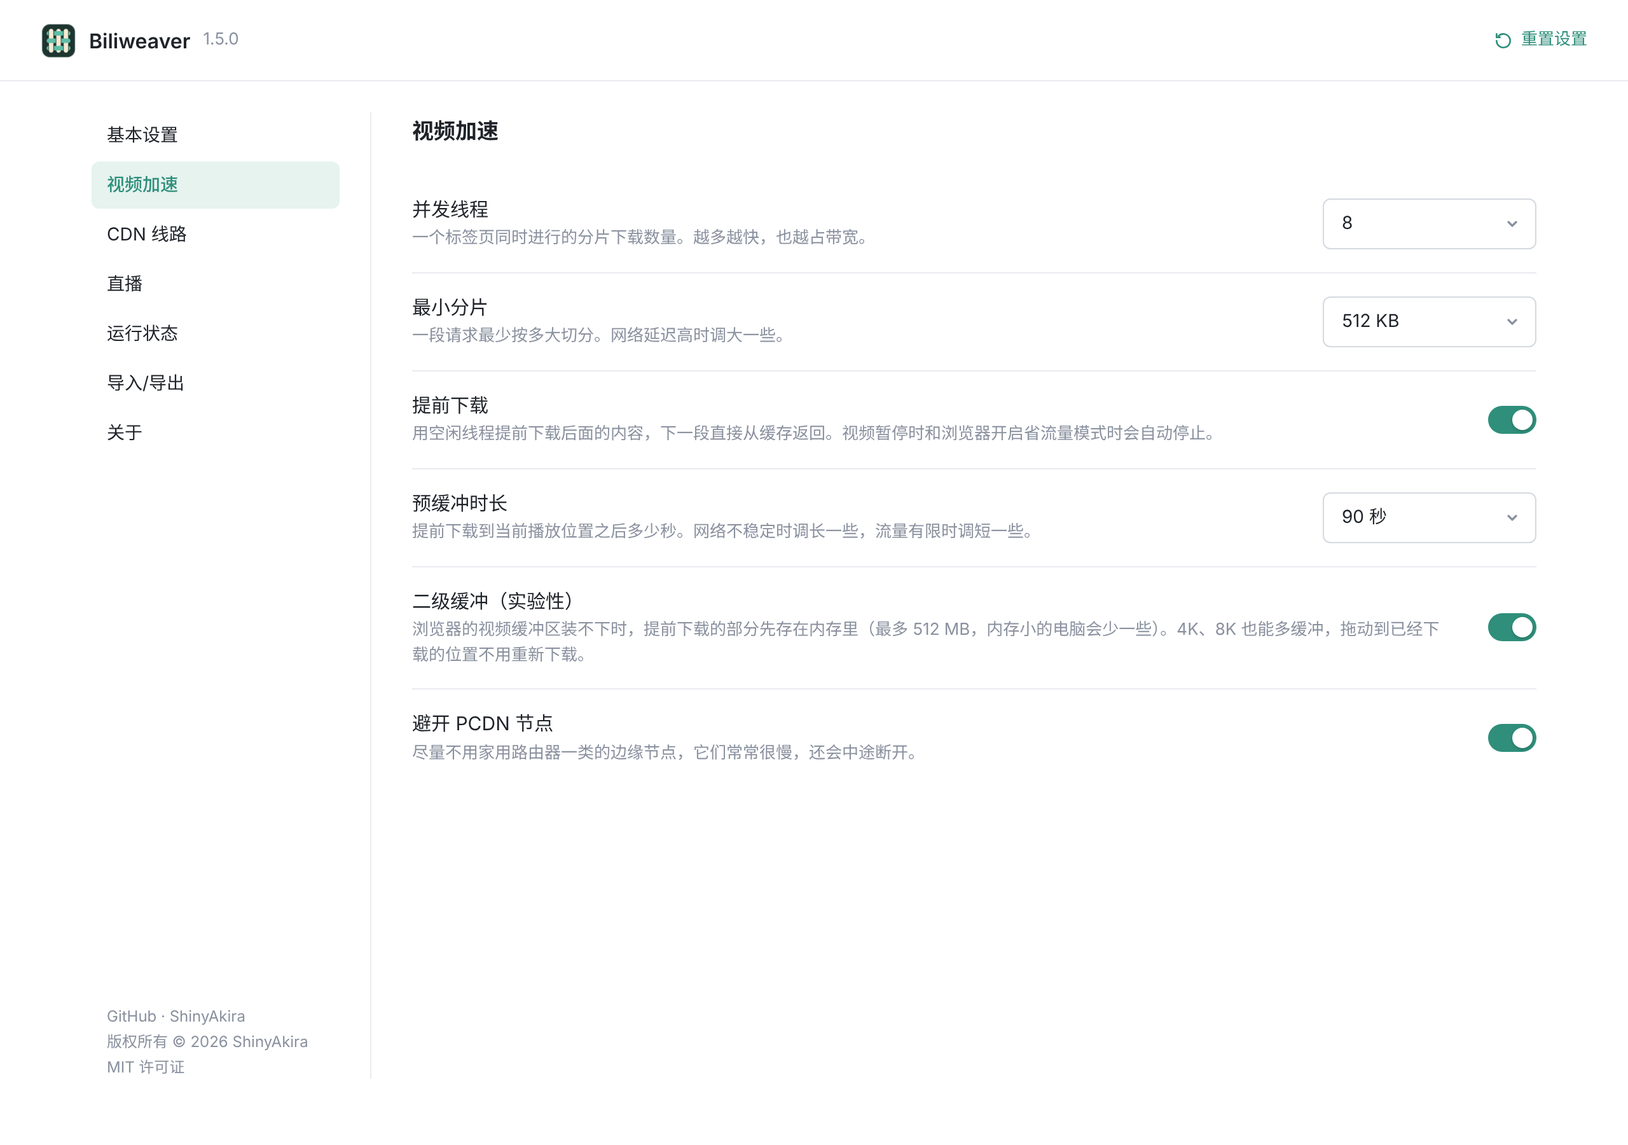
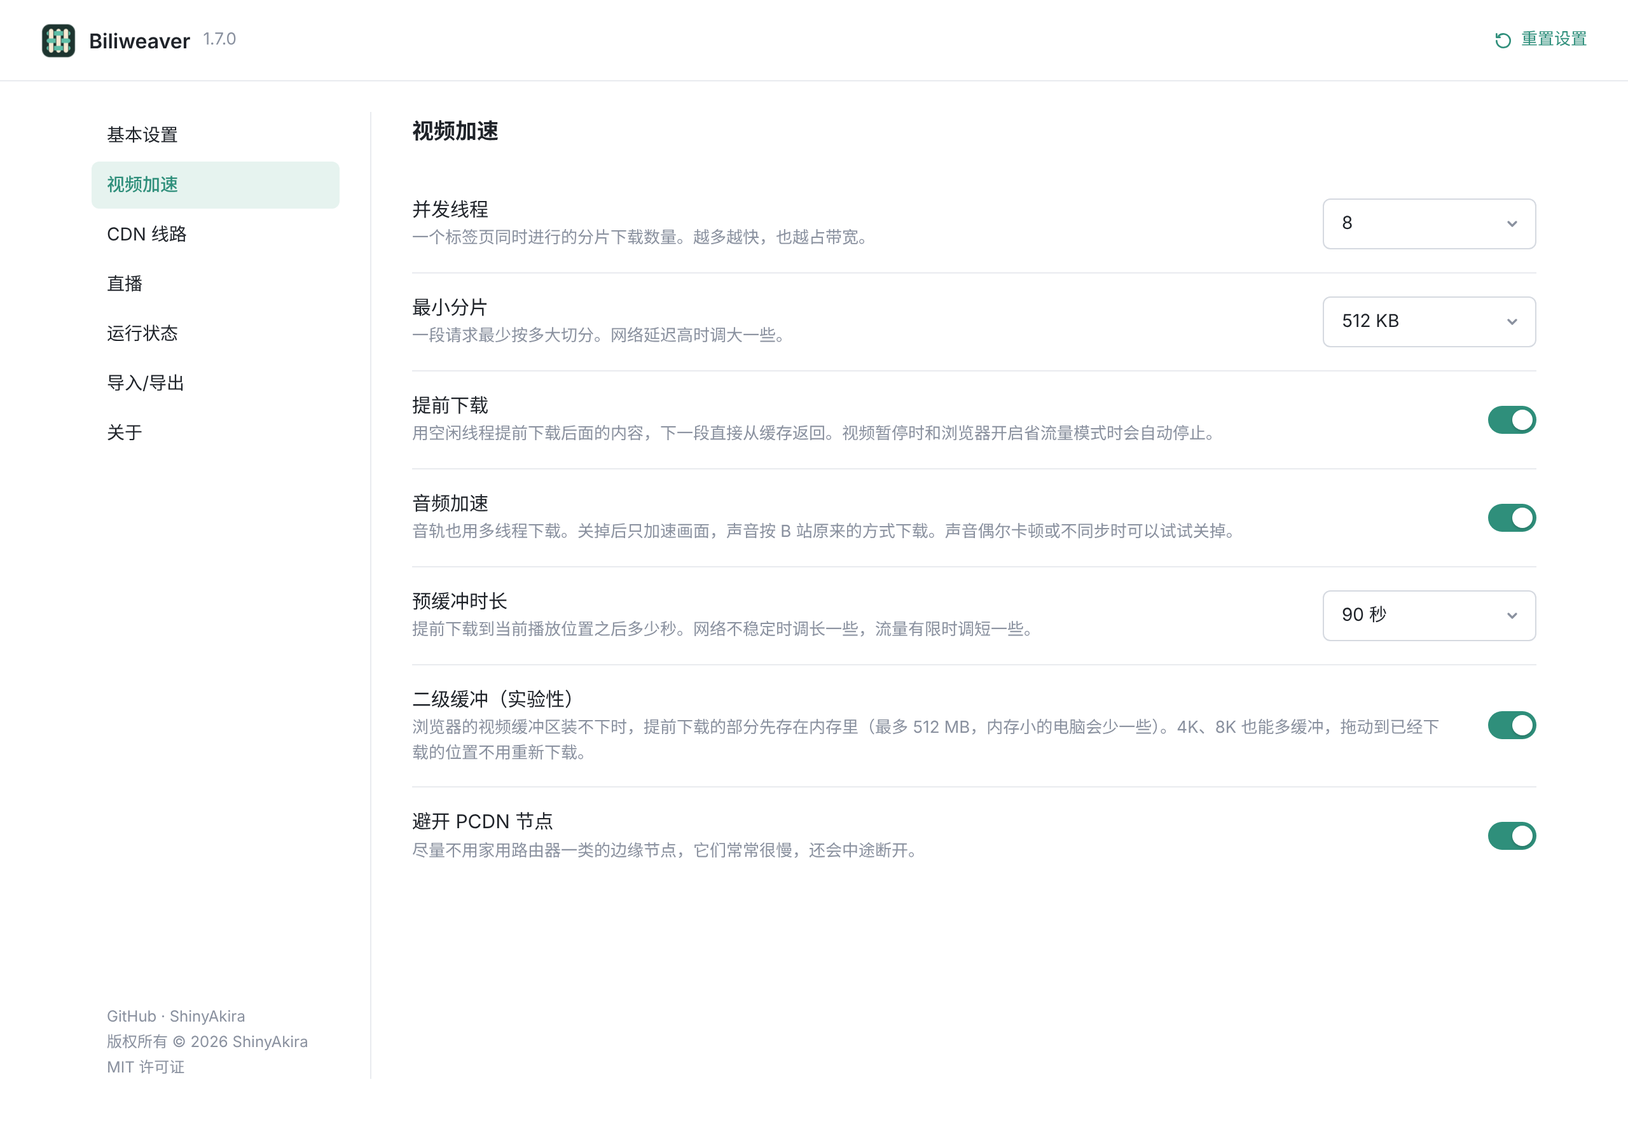
biliweaver v1.7.0

diff --git a/content/player-button.js b/content/player-button.js
@@ -96,6 +96,34 @@
     if (open) renderStats();
   });
 
+  // The last minute of speed, one sample a second, for the chart in the panel. The page
+  // sends stats only when they change, so the latest figure stands for the quiet seconds.
+  const HISTORY = 60;
+  const speeds = [];
+  setInterval(() => {
+    if (!stats) return;
+    speeds.push(Math.max(0, Number(stats.speedBps) || 0));
+    if (speeds.length > HISTORY) speeds.shift();
+    if (open) renderChart();
+  }, 1000);
+
+  function renderChart() {
+    const box = panelRoot?.querySelector(".chart");
+    if (!box) return;
+    const peak = Math.max(0, ...speeds);
+    box.hidden = peak <= 0;
+    if (peak <= 0) return;
+    const width = 240;
+    const height = 34;
+    const step = width / (HISTORY - 1);
+    const offset = HISTORY - speeds.length;
+    const points = speeds.map((value, index) => [(offset + index) * step, height - 2 - (value / peak) * (height - 6)]);
+    const line = points.map(([x, y], index) => `${index ? "L" : "M"}${x.toFixed(1)} ${y.toFixed(1)}`).join(" ");
+    box.querySelector(".chart-line").setAttribute("d", line);
+    box.querySelector(".chart-area").setAttribute("d", `${line} L${points[points.length - 1][0].toFixed(1)} ${height} L${points[0][0].toFixed(1)} ${height} Z`);
+    box.querySelector(".chart-caption").textContent = t("chartCaption").replace("{peak}", `${formatBytes(peak)}/s`);
+  }
+
   // ---------------------------------------------------------------------------------
   // The button.
   // ---------------------------------------------------------------------------------
@@ -347,6 +375,10 @@
         <div><b data-stat="threads">0</b><span data-i18n="threadsNow"></span></div>
         <div><b data-stat="bytes">0 B</b><span data-i18n="accelerated"></span></div>
       </div>
+      <div class="chart" hidden>
+        <svg viewBox="0 0 240 34" preserveAspectRatio="none" aria-hidden="true"><path class="chart-area"/><path class="chart-line"/></svg>
+        <div class="chart-caption"></div>
+      </div>
       <div class="notices" data-stat="notices"></div>
       <div class="group">
         <div class="label" data-i18n="threads"></div>
@@ -411,6 +443,11 @@
     .stats div{display:flex;flex-direction:column;align-items:center}
     .stats b{font-size:13px;font-weight:600;color:#00aeec;font-variant-numeric:tabular-nums;white-space:nowrap}
     .stats span{font-size:11px;color:hsla(0,0%,100%,.55)}
+    .chart{margin:-2px 0 8px}
+    .chart svg{display:block;width:100%;height:34px}
+    .chart-area{fill:rgba(0,174,236,.18)}
+    .chart-line{fill:none;stroke:#00aeec;stroke-width:1.5;vector-effect:non-scaling-stroke;stroke-linejoin:round}
+    .chart-caption{font-size:11px;color:hsla(0,0%,100%,.45);text-align:right;margin-top:2px;font-variant-numeric:tabular-nums}
     .group{margin:8px 0}
     .label{font-size:12px;color:hsla(0,0%,100%,.6);margin-bottom:5px}
     .segments{display:grid;grid-template-columns:repeat(4,1fr);gap:4px}
@@ -668,6 +705,7 @@
     renderNotices();
     const set = (name, text) => { const element = panelRoot.querySelector(`[data-stat=${name}]`); if (element) element.textContent = text; };
     set("speed", `${formatBytes(stats?.speedBps)}/s`);
+    renderChart();
     set("threads", String(stats?.activeThreads || 0));
     set("bytes", formatBytes(stats?.acceleratedBytes));
     // With the second buffer on: seconds loaded past the playback position, and the memory

diff --git a/page/transfer.js b/page/transfer.js
@@ -27,11 +27,12 @@
   const MIN_SPEED_FOR_TIMEOUT = 24 * 1024; // bytes per second before a piece counts as stalled
 
   class TransferError extends Error {
-    constructor(message, { hard = false, status = 0 } = {}) {
+    constructor(message, { hard = false, status = 0, expired = false } = {}) {
       super(message);
       this.name = "TransferError";
       this.hard = hard;
       this.status = status;
+      this.expired = expired;
     }
   }
 
@@ -108,10 +109,15 @@
       clearTimeout(headerTimer);
       headerTimer = null;
       if (response.status === 416) throw new TransferError("range not satisfiable", { status: 416 });
-      // 429 is always rate limiting. A 403 from a host that has already served this page
-      // well is too; a 403 from a host never used is just a host that cannot serve the file.
-      if (response.status === 429 || (response.status === 403 && entry.requests > 0)) bw.guard.rateLimited(host, response.status);
-      if (response.status === 429) throw new TransferError("HTTP 429", { status: 429 });
+      // A 403 for an address past its deadline says nothing about the host: the address is
+      // stale, and bilibili's player will fetch a new one.
+      if (response.status === 403 && util.expired(candidate.url)) throw new TransferError("address expired", { status: 403, expired: true });
+      // 429 and 412 (bilibili's own "too many requests") are always rate limiting. A 403 from
+      // a host that has already served this page well is too; a 403 from a host never used
+      // is just a host that cannot serve the file.
+      const limited = response.status === 429 || response.status === 412;
+      if (limited || (response.status === 403 && entry.requests > 0)) bw.guard.rateLimited(host, response.status);
+      if (limited) throw new TransferError(`HTTP ${response.status}`, { status: response.status });
       if (response.status === 403 || response.status === 404) throw new TransferError(`HTTP ${response.status}`, { hard: true, status: response.status });
       if (response.status !== 206) {
         // A server that ignores Range would send the whole file; that host is useless here.
@@ -147,7 +153,7 @@
     } catch (error) {
       if (outerSignal?.aborted) throw util.abortError();
       const transfer = error instanceof TransferError ? error : new TransferError(controller.signal.aborted ? "timed out" : String(error?.message || error));
-      if (transfer.status !== 416) hosts.failure(host, transfer.message, { hard: transfer.hard });
+      if (transfer.status !== 416 && !transfer.expired) hosts.failure(host, transfer.message, { hard: transfer.hard });
       throw transfer;
     } finally {
       if (headerTimer) clearTimeout(headerTimer);
@@ -174,7 +180,7 @@
         return await hedged(file, candidates, candidate, start, end, signal, tried);
       } catch (error) {
         if (signal?.aborted || error?.name === "AbortError") throw util.abortError();
-        if (error?.status === 416) throw error;
+        if (error?.status === 416 || error?.expired) throw error;
         lastError = error;
       } finally {
         release();

diff --git a/tests/extension-test.js b/tests/extension-test.js
@@ -162,6 +162,7 @@ window.__NEPTUNE_IS_MY_WAIFU__ = { roomInitRes: { data: { playurl_info: { playur
     const hint = await popup.locator("small[data-i18n=blockIntlHint]").textContent();
     assert.ok(/international site/.test(hint), hint);
     assert.equal(await popup.isChecked("input[data-key=blockIntl]"), false);
+    assert.equal(await popup.isChecked("input[data-key=audio]"), true);
     await popup.click("label:has(input[data-key=blockIntl]) .switch");
     await popup.waitForTimeout(300);
     assert.equal((await worker.evaluate(() => chrome.storage.sync.get("blockIntl"))).blockIntl, true);
@@ -547,11 +548,25 @@ window.__NEPTUNE_IS_MY_WAIFU__ = { roomInitRes: { data: { playurl_info: { playur
     const cookie = (await context.cookies("https://www.bilibili.com")).find((item) => item.name === "user_site");
     assert.equal(cookie?.value, "CN");
     assert.equal(cookie?.domain, ".bilibili.com");
-    // A tab bilibili keeps sending back is left on the international site after two tries.
+    // bilibili's own code moving this page to its international twin (as it does for some
+    // signed-in accounts) is cancelled.
+    await intl.waitForFunction(() => window.__biliweaver?.isReady === true);
+    await intl.evaluate(() => { location.href = "/zh-Hans/video/BV1test/?p=2"; });
+    await intl.waitForTimeout(800);
+    assert.equal(intl.url(), "https://www.bilibili.com/video/BV1test/?p=2");
+    assert.equal(await intl.evaluate(() => document.documentElement.dataset.biliweaverSiteKept), "1");
+    // A page whose script keeps moving it to the international site stays on the mainland.
     await context.route("https://www.bilibili.com/**/BV1loop*", (route) => route.fulfill({ contentType: "text/html", body: "<!doctype html><title>loop</title><script>if (!location.pathname.startsWith('/zh-Hans/')) location.replace('/zh-Hans/video/BV1loop');</script>" }));
     await intl.goto("https://www.bilibili.com/zh-Hans/video/BV1loop");
+    await intl.waitForTimeout(1500);
+    assert.equal(new URL(intl.url()).pathname, "/video/BV1loop");
+    // When the server itself keeps sending the tab back, it is left there after two tries.
+    await context.route("https://www.bilibili.com/video/BV1srv", (route) => route.fulfill({ status: 302, headers: { location: "https://www.bilibili.com/zh-Hans/video/BV1srv" } }));
+    await context.route("https://www.bilibili.com/zh-Hans/video/BV1srv", (route) => route.fulfill({ contentType: "text/html", body: "<!doctype html><title>srv</title>" }));
+    await intl.waitForTimeout(16000);
+    await intl.goto("https://www.bilibili.com/zh-Hans/video/BV1srv");
     await intl.waitForTimeout(2500);
-    assert.equal(new URL(intl.url()).pathname, "/zh-Hans/video/BV1loop");
+    assert.equal(new URL(intl.url()).pathname, "/zh-Hans/video/BV1srv");
     await worker.evaluate(() => chrome.storage.sync.set({ blockIntl: false }));
     await intl.goto("https://www.bilibili.com/video/BV1test/");
     await intl.waitForFunction(() => window.__biliweaver?.isReady === true);

diff --git a/page/vod.js b/page/vod.js
@@ -50,6 +50,9 @@
       remember(urls);
       // The stream's bit rate turns the buffer length setting into bytes.
       if (Number(value.bandwidth) > 0) for (const url of urls) bw.media.setBitrate(util.fileKey(util.absoluteUrl(url)), value.bandwidth);
+      // The play info says which streams are sound; "Accelerate audio" can leave those alone.
+      const mime = String(value.mimeType || value.mime_type || "");
+      if (/^audio\//i.test(mime) || AUDIO_IDS.has(Number(value.id))) for (const url of urls) audioKeys.add(util.fileKey(util.absoluteUrl(url)));
     }
     for (const key of Object.keys(value)) {
       const child = value[key];
@@ -70,12 +73,25 @@
     try { scan(JSON.parse(text)); } catch (_error) {}
   });
 
+  // bilibili numbers its sound streams 30216, 30232 and 30280 (AAC), 30250 (Dolby) and
+  // 30251 (Hi-Res); the number ends the file name, as in …-1-30280.m4s.
+  const AUDIO_IDS = new Set([30216, 30232, 30280, 30250, 30251]);
+  const audioKeys = new Set();
+  function isAudio(url) {
+    if (audioKeys.has(util.fileKey(url))) return true;
+    const id = /-(\d{5})\.m4s(?:\?|$)/i.exec(url);
+    return Boolean(id && AUDIO_IDS.has(Number(id[1])));
+  }
+
   function isMedia(url) {
     try {
       const parsed = new URL(url);
       if (!/\/upgcxcode\//.test(parsed.pathname)) return false;
       if (!/\.(?:m4s|mp4|flv)$/i.test(parsed.pathname)) return false;
-      return /(?:^|\.)(?:bilivideo\.(?:com|cn)|akamaized\.net|szbdyd\.com|hdslb\.com)$/i.test(parsed.hostname) || util.isPcdn(url) || root.__BILIWEAVER_TEST__ === true;
+      if (/(?:^|\.)(?:bilivideo\.(?:com|cn)|akamaized\.net|szbdyd\.com|hdslb\.com)$/i.test(parsed.hostname) || util.isPcdn(url) || root.__BILIWEAVER_TEST__ === true) return true;
+      // Another script or extension may have moved the video to a host of its own. The
+      // signed bilibili path (with its upsig signature) still says what it is.
+      return parsed.searchParams.has("upsig") || bw.settings.customHosts.some((host) => host === parsed.hostname);
     } catch (_error) {
       return false;
     }
@@ -125,6 +141,11 @@
     if (request.method !== "GET" || !isMedia(request.url)) return null;
     if (bw.isReady && !bw.settings.enabled) return null;
     if (bw.guard.paused()) return null;
+    // Past its deadline the address only gets 403s; bilibili's player sees that and asks for
+    // a new one, which is accelerated again.
+    if (util.expired(request.url, 5000)) return null;
+    // "Accelerate audio" off: the sound goes the way bilibili sends it.
+    if (!bw.settings.audio && isAudio(request.url)) return null;
     const rangeHeader = request.headers.get("range");
     if (rangeHeader && !util.parseRangeHeader(rangeHeader)) return null;
     return async () => {

diff --git a/content/relay.js b/content/relay.js
@@ -38,8 +38,11 @@
     }
   };
   let leaving = false;
+  let keepMainland = false;
   const applySite = (settings) => {
-    if (leaving || window.top !== window || location.hostname !== "www.bilibili.com") return;
+    if (window.top !== window || location.hostname !== "www.bilibili.com") return;
+    keepMainland = settings.enabled === true && settings.blockIntl === true;
+    if (leaving) return;
     try {
       if (settings.enabled && settings.blockIntl) {
         if (userSite() !== "CN") {
@@ -60,6 +63,35 @@
       }
     } catch (_error) {}
   };
+  // For a signed-in viewer, bilibili's own page code may move a mainland page to the same
+  // page on the international site, going by the account rather than the cookie. While the
+  // setting is on, that one move is cancelled before it happens (Navigation API, Chrome 102
+  // and later). Other navigations, such as a link the viewer clicks, are left alone.
+  const samePage = (a, b) => {
+    try {
+      const x = new URL(a);
+      const y = new URL(b);
+      return x.origin === y.origin && x.pathname.replace(/\/+$/, "") === y.pathname.replace(/\/+$/, "");
+    } catch (_error) {
+      return false;
+    }
+  };
+  let cancelled = 0;
+  try {
+    if (window.top === window && location.hostname === "www.bilibili.com" && typeof globalThis.navigation?.addEventListener === "function") {
+      globalThis.navigation.addEventListener("navigate", (event) => {
+        if (!keepMainland || !event.cancelable || event.navigationType === "traverse" || event.hashChange || event.downloadRequest) return;
+        const destination = event.destination?.url || "";
+        const mainland = globalThis.BiliweaverSite.mainlandUrl(destination);
+        // Only a move from this very page to its international twin.
+        if (!mainland || globalThis.BiliweaverSite.mainlandUrl(location.href) || !samePage(mainland, location.href)) return;
+        event.preventDefault();
+        cancelled += 1;
+        document.documentElement.dataset.biliweaverSiteKept = String(cancelled);
+      });
+    }
+  } catch (_error) {}
+
   // The copy kept in localStorage is read at once, so the redirect happens before the page
   // has loaded; the stored settings confirm it a moment later.
   try {

diff --git a/scripts/screenshots.js b/scripts/screenshots.js
@@ -98,14 +98,28 @@ const DEMO_SELF_TEST = { ok: true, tested: 10, working: 8, results: [
   await page.evaluate((demo) => {
     window.__biliweaver.selfTest = () => new Promise((resolve) => setTimeout(() => resolve({ ...demo, at: Date.now() }), 600));
   }, DEMO_SELF_TEST);
-  await page.evaluate((fake) => { window.__fake = setInterval(() => document.dispatchEvent(new CustomEvent("biliweaver:stats", { detail: fake })), 100); }, FAKE_STATS);
+  // Speed rises and settles like a video starting, so the panel's chart has a shape.
+  await page.evaluate((fake) => {
+    const base = JSON.parse(fake);
+    const started = Date.now();
+    // The real engine on this demo page reports zero speed now and then; only the demo
+    // figures should reach the panel.
+    const dispatch = document.dispatchEvent.bind(document);
+    document.dispatchEvent = (event) => (event.type === "biliweaver:stats" && !String(event.detail).includes('"demo":true') ? true : dispatch(event));
+    window.__fake = setInterval(() => {
+      const t = (Date.now() - started) / 1000;
+      const speed = (10.5 + 1.6 * Math.sin(t / 9.1) + 0.7 * Math.sin(t / 7.3 + 1) + (t < 6 ? (t - 6) * 1.2 : 0)) * 1024 * 1024;
+      document.dispatchEvent(new CustomEvent("biliweaver:stats", { detail: JSON.stringify({ ...base, demo: true, speedBps: Math.max(0.4 * 1024 * 1024, speed) }) }));
+    }, 100);
+  }, FAKE_STATS);
+  await page.waitForTimeout(45000);
 
   // Player panel, Chinese.
   await setLanguage("zh-CN");
   await page.waitForTimeout(400);
   await page.click("#right .biliweaver-ctrl");
   await page.waitForTimeout(700);
-  await page.screenshot({ path: path.join(out, "player-panel.png"), clip: { x: 640, y: 120, width: 640, height: 600 } });
+  await page.screenshot({ path: path.join(out, "player-panel.png"), clip: { x: 640, y: 80, width: 640, height: 640 } });
 
   // Self test in the panel, English.
   await setLanguage("en");

diff --git a/shared/i18n.js b/shared/i18n.js
@@ -127,6 +127,9 @@
     resumeNow: ["立即恢复", "Resume now", "今すぐ再開"],
     throttledNotice: ["检测到限流，线程暂时降到 {n}", "Rate limited; threads lowered to {n} for now", "制限を検出したため、スレッド数を一時的に {n} にしています"],
     hlsFallbackNotice: ["这个直播间用 HLS 播放失败，已改用 FLV", "HLS failed in this room, so FLV is used", "この配信では HLS が再生できなかったため FLV を使用しています"],
+    chartCaption: ["最近 1 分钟 · 峰值 {peak}", "Last minute · peak {peak}", "直近 1 分 · 最大 {peak}"],
+    audio: ["音频加速", "Accelerate audio", "音声も高速化"],
+    audioDesc: ["音轨也用多线程下载。关掉后只加速画面，声音按 B 站原来的方式下载。声音偶尔卡顿或不同步时可以试试关掉。", "Downloads the sound with several connections too. Off, only the picture is sped up and the sound comes the way bilibili sends it. Worth trying if the sound ever stutters or drifts.", "音声も複数の接続でダウンロードします。オフにすると映像だけを高速化し、音声は bilibili 本来の方法で取得します。音が途切れたりずれたりする場合に試してください。"],
     bufferSeconds: ["预缓冲时长", "Buffer ahead", "先読みの長さ"],
     bufferSecondsDesc: ["提前下载到当前播放位置之后多少秒。网络不稳定时调长一些，流量有限时调短一些。", "How many seconds past the playback position are downloaded ahead. Longer helps on unsteady networks, shorter saves data.", "再生位置から何秒先まで先にダウンロードするか。回線が不安定なら長く、通信量を抑えたいなら短くします。"],
     secondsOption: ["{n} 秒", "{n} seconds", "{n} 秒"],

diff --git a/page/intercept.js b/page/intercept.js
@@ -74,7 +74,8 @@
     }
     return Promise.resolve().then(() => handler(request)).catch((error) => {
       if (error?.name === "AbortError") throw error;
-      if (error !== PASS) {
+      if (error?.expired) bw.recordError("expired", util.hostOf(request.url), "address expired; left to bilibili");
+      else if (error !== PASS) {
         stats.counters.fallbacks += 1;
         bw.recordError("fallback", util.hostOf(request.url), error?.message || String(error));
         bw.guard.failure(error?.message || String(error));
@@ -261,7 +262,8 @@
       if (error?.name === "AbortError") return;
       if (readyState === 1) {
         // Nothing reached the page yet: send the request the ordinary way instead.
-        if (error !== PASS) {
+        if (error?.expired) bw.recordError("expired", util.hostOf(request.url), "address expired; left to bilibili");
+        else if (error !== PASS) {
           stats.counters.fallbacks += 1;
           bw.recordError("fallback", util.hostOf(request.url), error?.message || String(error));
           bw.guard.failure(error?.message || String(error));

diff --git a/options/options.js b/options/options.js
@@ -23,6 +23,7 @@ const SECTIONS = [
     { key: "threads", type: "select", number: true, title: "threads", desc: "threadsDesc", options: () => Settings.THREAD_CHOICES.map((value) => [value, String(value)]) },
     { key: "chunkKB", type: "select", number: true, title: "chunk", desc: "chunkDesc", options: () => Settings.CHUNK_CHOICES_KB.map((value) => [value, value >= 1024 ? `${value / 1024} MB` : `${value} KB`]) },
     { key: "prefetch", type: "switch", title: "prefetch", desc: "prefetchDesc" },
+    { key: "audio", type: "switch", title: "audio", desc: "audioDesc" },
     { key: "bufferSeconds", type: "select", number: true, title: "bufferSeconds", desc: "bufferSecondsDesc", options: () => Settings.BUFFER_CHOICES_S.map((value) => [value, I18n.t(lang, "secondsOption").replace("{n}", String(value))]) },
     { key: "secondaryBuffer", type: "switch", title: "secondaryBuffer", desc: "secondaryBufferDesc" },
     { key: "avoidPcdn", type: "switch", title: "avoidPcdnLong", desc: "avoidPcdnDesc" }

diff --git a/page/core.js b/page/core.js
@@ -92,6 +92,17 @@
 
   // Hosts that belong to the peer CDN (home routers and small edge boxes). They are often
   // much slower than the main store and may disappear in the middle of a file.
+  // Signed video addresses carry deadline=<unix seconds>. Past it, every host answers 403,
+  // and only bilibili's player can get a fresh address, so such a request is left to it.
+  util.expired = (url, marginMs = 0) => {
+    try {
+      const deadline = Number(new URL(url).searchParams.get("deadline"));
+      return Number.isFinite(deadline) && deadline > 1e9 && deadline * 1000 <= Date.now() + marginMs;
+    } catch (_error) {
+      return false;
+    }
+  };
+
   util.isPcdn = (url) => {
     try {
       const parsed = new URL(url);

diff --git a/shared/settings.js b/shared/settings.js
@@ -37,6 +37,7 @@
     threads: 8,
     chunkKB: 512,
     prefetch: true,
+    audio: true,
     bufferSeconds: 45,
     secondaryBuffer: false,
     cdn: "auto",
@@ -78,6 +79,7 @@
       threads: nearest(THREAD_CHOICES, source.threads, DEFAULTS.threads),
       chunkKB: nearest(CHUNK_CHOICES_KB, source.chunkKB, DEFAULTS.chunkKB),
       prefetch: source.prefetch !== false,
+      audio: source.audio !== false,
       bufferSeconds: nearest(BUFFER_CHOICES_S, source.bufferSeconds, DEFAULTS.bufferSeconds),
       secondaryBuffer: source.secondaryBuffer === true,
       cdn: CDN_MODES.includes(source.cdn) ? source.cdn : DEFAULTS.cdn,

diff --git a/popup/popup.html b/popup/popup.html
@@ -53,6 +53,10 @@
       <span class="switch"><input type="checkbox" data-key="prefetch"><span></span></span>
     </label>
     <label class="row">
+      <span data-i18n="audio"></span>
+      <span class="switch"><input type="checkbox" data-key="audio"><span></span></span>
+    </label>
+    <label class="row">
       <span data-i18n="avoidPcdnLong"></span>
       <span class="switch"><input type="checkbox" data-key="avoidPcdn"><span></span></span>
     </label>
